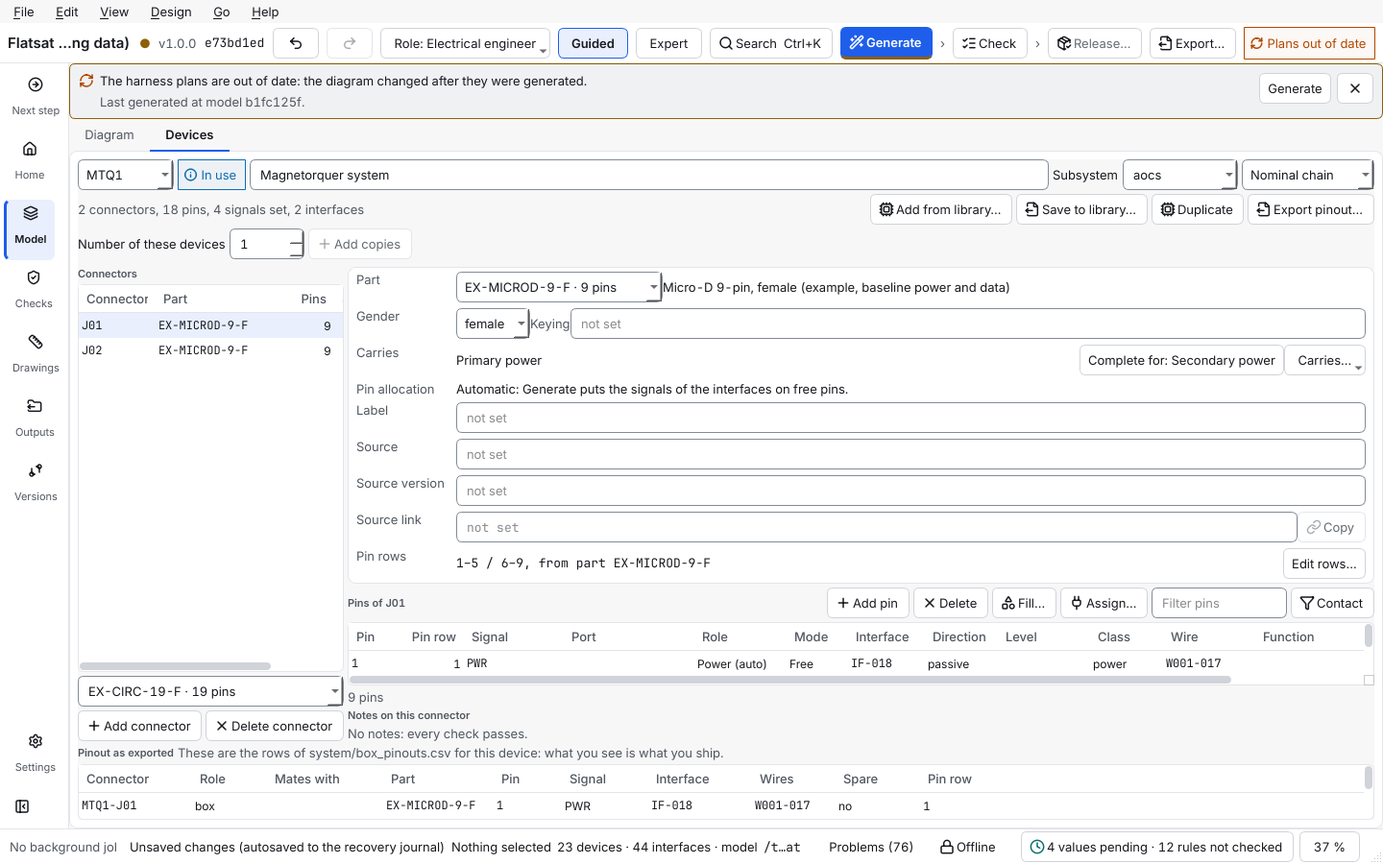
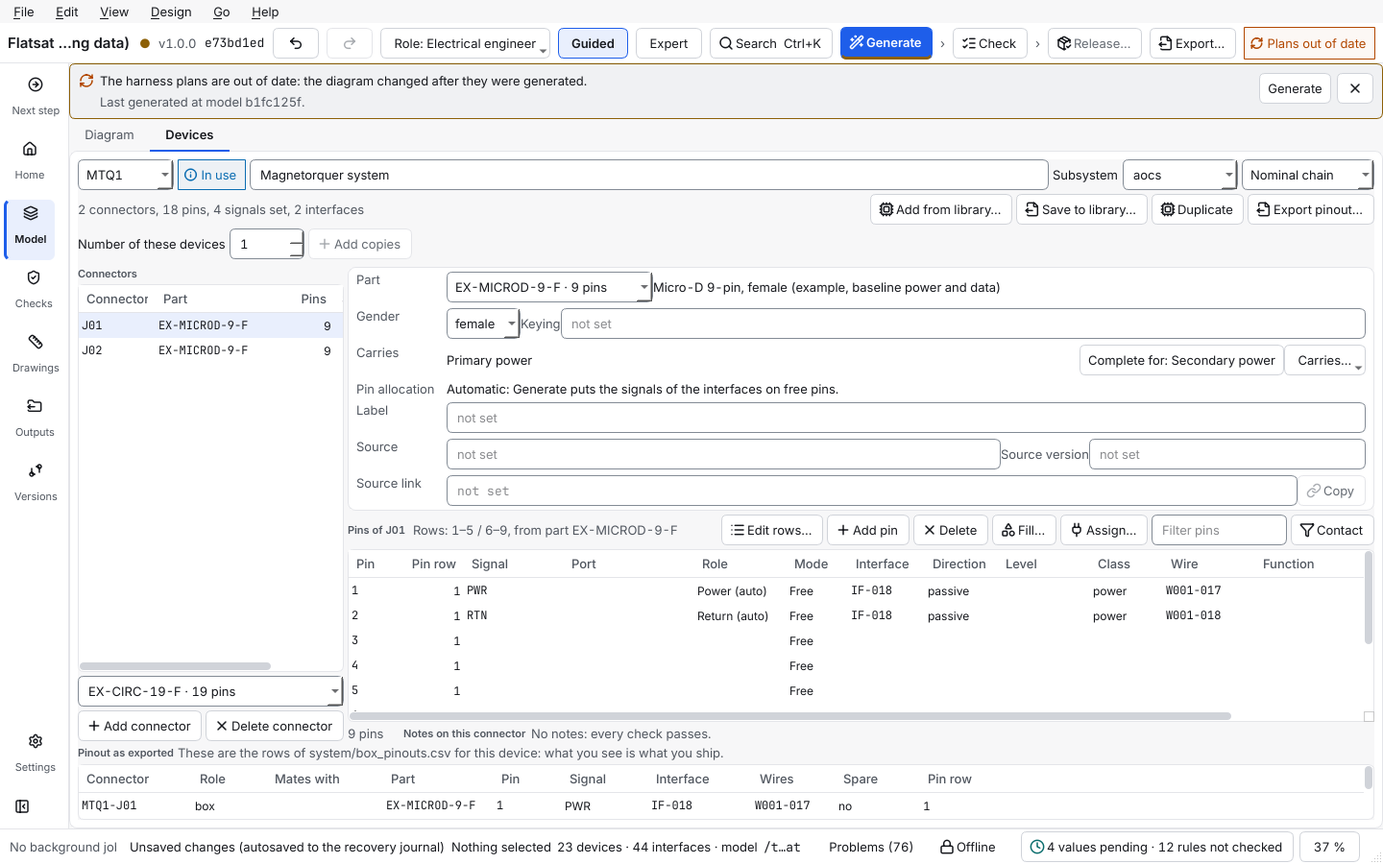
Devices tab: the pin rows on the line of the pin table, so that it keeps four rows (PR 5 of 4.0.0)
What: the follow-up on 79a5c8cd3. Picture 29 showed the pin table of the Devices tab one row
high at 1440 x 900: the card row Pin rows made the connector card taller.

- The card row Pin rows is gone. The line of the pin table reads "Pins of J01  Rows: 1–5 / 6–9,
  from part EX-MICROD-9-F" (or "Rows: none"), then Edit rows…, then Add pin. The rows' text is
  a gui/shell.ElidedLabel (cut when narrow, the whole text and the column's tip as tooltip;
  accessible name "Pin rows"); the caption is cut too, but only after the rows' text. When the
  pane has no room for every button with its text, Edit rows… shows its icon only
  (DevicesView._fit_pin_bar on a resize of the pane; tooltip and accessible name stay), so the
  tab's minimum width stays within a 1280 px window (test_ux_devices, 869 px).
- Moving the row alone gave the pin table two rows with the side panels open, so two lines
  more were taken out: the pin count and the notes' caption and count share one line under the
  table, and Source version sits beside Source on the card (as Keying beside Gender). The table
  now shows 5 rows in picture 29.
- tests/test_ui_row_layout.py: test_the_pin_table_keeps_four_rows_at_1440_by_900 (flatsat, a
  part with rows, the out-of-date banner, side panels open and closed; rows = the table's
  viewport height / the row height, as the layout tests read sizes). On 79a5c8cd3 it fails
  ("the pin table shows 0 rows (side panels open: True)"); with the row moved only, 2 rows;
[…]

diff --git a/HarnessDesignStudio/src/harness_design_studio/gui/devices_view.py b/HarnessDesignStudio/src/harness_design_studio/gui/devices_view.py
@@ -16,9 +16,9 @@ exported, and the notes the pin checks give. Plugged into the window as the sixt
   the interface type of the pin's signal and are empty, with the reason as tooltip, when nothing
   can be said: nothing is guessed. Port is the complete named port of a fixed pinout the pin is in
   and the interface on it (`devices.pin_ports`, D-237): worked out, never stored or exported.
-* The card's row *Pin rows* (format 4, D-251): the rows of the connector in the short text form and
-  where they come from (`row_layout_dialog.rows_words`), with *Edit rows…* (`rowsRequested`); the
-  pin table's column *Pin row* shows while the connector has a row layout.
+* The pin rows (format 4, D-251), on the line of the pin table: the rows of the connector in the
+  short text form and where they come from (`row_layout_dialog.rows_words`), with *Edit rows…*
+  (`rowsRequested`); the pin table's column *Pin row* shows while the connector has a row layout.
 * Notes under the pin table (`core.devices.pinout_problems`) and "Pinout as exported": exactly
   the rows of `system/box_pinouts.csv` for this unit.
 * Every number and sentence comes from headless code in `core.devices`, and every change goes
@@ -32,7 +32,16 @@ from functools import partial
 from pathlib import Path
 from typing import Any
 
-from PySide6.QtCore import QItemSelectionModel, QModelIndex, QSettings, Qt, QTimer, Signal
+from PySide6.QtCore import (
+    QEvent,
+    QItemSelectionModel,
+    QModelIndex,
+    QObject,
+    QSettings,
+    Qt,
+    QTimer,
+    Signal,
+)
 from PySide6.QtGui import QAction, QGuiApplication, QKeySequence, QShortcut
 from PySide6.QtWidgets import (
     QCheckBox,
@@ -44,6 +53,7 @@ from PySide6.QtWidgets import (
     QLineEdit,
     QMenu,
     QPushButton,
+    QSizePolicy,
     QSpinBox,
     QSplitter,
     QStackedWidget,
@@ -74,6 +84,7 @@ from harness_design_studio.gui.icons import icon_button, tooltip_text
 from harness_design_studio.gui.library_review import LibraryChip, LinkLookup
 from harness_design_studio.gui.lists_panel import table_columns
 from harness_design_studio.gui.row_layout_dialog import rows_words
+from harness_design_studio.gui.shell import ElidedLabel
 from harness_design_studio.gui.states import StateChip
 from harness_design_studio.gui.tables import Column, DictTableModel, Row, TableView, natural_key
 from harness_design_studio.gui.theme import ThemeManager, mark_mono
@@ -673,6 +684,7 @@ class DevicesView(QWidget):
         # where the pinout comes from (format 3, D-242, design of 3.0.0 section 4.1): the
         # document, its version and a web link to it, shown in the harness plan
         self.source_edits: dict[str, QLineEdit] = {}
+        source_box = QHBoxLayout()
         for k, (field, words, tip_text) in enumerate(
             (
                 ("source_doc", strings.DV_CARD_SOURCE, strings.DV_CARD_SOURCE_TIP),
@@ -688,8 +700,16 @@ class DevicesView(QWidget):
             edit.setPlaceholderText(strings.DV_CARD_NONE)
             edit.editingFinished.connect(partial(self._source_edited, field))
             self.source_edits[field] = edit
-            grid.addWidget(caption(words), k, 0, top)
-            if field == "source_link":
+            if field == "source_version":  # (on the line of Source, as Keying beside Gender:
+                source_box.addWidget(caption(words))  # the card stays short, 4.0.0)
+                source_box.addWidget(edit, 1)
+                continue
+            row = k if k == 5 else k - 1
+            grid.addWidget(caption(words), row, 0, top)
+            if field == "source_doc":
+                source_box.addWidget(edit, 2)
+                grid.addLayout(source_box, row, 1)
+            elif field == "source_link":
                 mark_mono(edit)
                 self.source_open = QPushButton()
                 self.source_open.setObjectName("devices-card-source-copy")
@@ -698,31 +718,32 @@ class DevicesView(QWidget):
                 link_box = QHBoxLayout()
                 link_box.addWidget(edit, 1)
                 link_box.addWidget(self.source_open)
-                grid.addLayout(link_box, k, 1)
-            else:
-                grid.addWidget(edit, k, 1)
-        # the pin rows of the connector and where they come from (format 4, design of 4.0.0
-        # section 9): own rows, the part's, or none; Edit rows… opens the dialog
-        self.rows_btn = QPushButton(strings.DV_ROWS_EDIT)
-        self.rows_btn.setObjectName("devices-card-rows-edit")
-        self.rows_btn.setAccessibleName(strings.DV_ROWS_EDIT)
-        self.rows_btn.setToolTip(strings.DV_ROWS_EDIT_TIP)
-        self.rows_btn.clicked.connect(self._edit_rows)
-        rows_box = QHBoxLayout()
-        rows_value = value("rows")
-        rows_value.setToolTip(strings.DV_CARD_ROWS_TIP)
-        mark_mono(rows_value)
-        rows_box.addWidget(rows_value, 1)
-        rows_box.addWidget(self.rows_btn)
-        grid.addWidget(caption(strings.DV_CARD_ROWS), 8, 0, top)
-        grid.addLayout(rows_box, 8, 1)
+                grid.addLayout(link_box, row, 1)
         grid.setColumnStretch(1, 1)
         rl.addWidget(self.card)
 
         bar = QHBoxLayout()
-        self.pins_caption = self._caption(strings.DV_PINS)
+        self.pins_caption = ElidedLabel(strings.DV_PINS)  # (cut, not wider, as the rows' text)
+        self.pins_caption.setProperty("heading", True)
+        self.pins_caption.setSizePolicy(QSizePolicy.Policy.Preferred, QSizePolicy.Policy.Preferred)
+        self.pins_caption.setMinimumWidth(1)  # (its whole text while there is room, cut after)
         bar.addWidget(self.pins_caption)
-        bar.addStretch(1)
+        # the pin rows of the connector and where they come from (format 4, design of 4.0.0
+        # section 9), on the line of the pin table so that the card does not grow: cut when the
+        # window is narrow (the whole text is the tooltip); Edit rows… opens the dialog
+        self.rows_text = ElidedLabel()
+        self.rows_text.setObjectName("devices-pin-rows")
+        self.rows_text.setAccessibleName(strings.DV_CARD_ROWS)
+        self.rows_text.setProperty("muted", True)
+        bar.addWidget(self.rows_text, 1)
+        self.rows_btn = QPushButton()
+        self.rows_btn.setObjectName("devices-pin-rows-edit")
+        icon_button(
+            self.rows_btn, "list", theme, strings.DV_ROWS_EDIT_TIP, text=strings.DV_ROWS_EDIT
+        )
+        self.rows_btn.clicked.connect(self._edit_rows)
+        bar.addWidget(self.rows_btn)
+        self.pin_bar = right  # (a narrow pane shows Edit rows… as its icon: `_fit_pin_bar`)
         self.pin_buttons: dict[str, QPushButton] = {}
         for key, icon_name, text, tip, shortcut, slot in (
             ("add", "plus", strings.DV_ADD_PIN, strings.DV_ADD_PIN_TIP, "Insert", self._insert_pin),
@@ -754,6 +775,11 @@ class DevicesView(QWidget):
         bar.addWidget(self.pin_filter)
         bar.addWidget(self.contact_btn)
         rl.addLayout(bar)
+        self._bar_layout = bar
+        # the least the button takes is its icon (the pane can be made that narrow: the text then
+        # goes, the tooltip and the accessible name stay)
+        self.rows_btn.setMinimumWidth(theme.px(36))
+        right.installEventFilter(self)
         self.pin_model = PinModel(PIN_COLUMNS, (), self.theme)
         self.pin_table = PinTable(
             self.pin_model, self.theme, name=strings.DV_PINS, settings=self.settings,
@@ -791,9 +817,17 @@ class DevicesView(QWidget):
         self.pin_count = QLabel()
         self.pin_count.setObjectName("devices-pin-count")
         self.pin_count.setProperty("muted", True)
-        rl.addWidget(self.pin_count)
-
-        rl.addWidget(self._caption(strings.DV_NOTES))
+        self.note_label = QLabel()
+        self.note_label.setObjectName("devices-note-label")
+        self.note_label.setProperty("muted", True)
+        # one line under the pin table: the count of the pins, the notes' caption and their count
+        # (4.0.0: two lines less, so that the pin table keeps its rows at 1440 x 900)
+        under = QHBoxLayout()
+        under.addWidget(self.pin_count)
+        under.addSpacing(theme.space(16))
+        under.addWidget(self._caption(strings.DV_NOTES))
+        under.addWidget(self.note_label, 1)
+        rl.addLayout(under)
         self.note_model = DictTableModel(NOTE_COLUMNS, (), self.theme)
         self.note_table = TableView(
             self.note_model, self.theme, name=strings.DV_NOTES, settings=self.settings,
@@ -804,10 +838,6 @@ class DevicesView(QWidget):
         self.note_table.setMaximumHeight(theme.px(96))
         self.note_table.activated.connect(self._note_activated)
         rl.addWidget(self.note_table)
-        self.note_label = QLabel()
-        self.note_label.setObjectName("devices-note-label")
-        self.note_label.setProperty("muted", True)
-        rl.addWidget(self.note_label)
         self.hsplit.addWidget(right)
 
         self.pin_filter.textChanged.connect(self.pin_table.proxy.set_text)
@@ -1257,6 +1287,7 @@ class DevicesView(QWidget):
             self.label_edit.setText("")
             self.pin_count.setText("")
             self.note_label.setText("")
+            self.rows_text.set_full_text("")
             self._show_pin_rows(None)
             return
         c = p.connectors[cid]
@@ -1283,7 +1314,8 @@ class DevicesView(QWidget):
         for edit in self.source_edits.values():
             edit.setEnabled(not ro)
         self.source_open.setEnabled(bool(c.source_link))
-        self.card_values["rows"].setText(rows_words(p, c))
+        words = strings.DV_ROWS_LINE.format(rows_words(p, c))
+        self.rows_text.set_full_text(words, f"{words}\n{strings.DV_CARD_ROWS_TIP}")
         self.rows_btn.setEnabled(not ro)
         self.rows_btn.setToolTip(strings.WHY_READ_ONLY if ro else strings.DV_ROWS_EDIT_TIP)
         face = layout_of(p, c)
@@ -1382,6 +1414,39 @@ class DevicesView(QWidget):
             if shown != total
             else strings.DV_PIN_COUNT_ALL.format(total)
         )
+
+    def eventFilter(self, obj: QObject, event: QEvent) -> bool:  # noqa: N802
+        if obj is self.pin_bar and event.type() == QEvent.Type.Resize:
+            self._fit_pin_bar()
+        return super().eventFilter(obj, event)
+
+    def _fit_pin_bar(self) -> None:
+        """*Edit rows…* with its text while the line of the pin table has room for every button
+        with its text, else as its icon (the text of the rows is cut first: `ElidedLabel`)."""
+        bar = self._bar_layout
+        need = 0
+        for k in range(bar.count()):
+            item = bar.itemAt(k)
+            w = item.widget() if item is not None else None
+            if w is None or w.isHidden():
+                continue
+            if w in (self.pins_caption, self.rows_text):
+                width = w.minimumSizeHint().width()
+            else:
+                width = self._rows_btn_full if w is self.rows_btn else w.sizeHint().width()
+            need += width + bar.spacing()
+        text = strings.DV_ROWS_EDIT if need <= self.pin_bar.width() else ""
+        if self.rows_btn.text() != text:
+            self.rows_btn.setText(text)
+            self.rows_btn.setProperty("iconOnly", not text)
+            self.rows_btn.style().unpolish(self.rows_btn)
+            self.rows_btn.style().polish(self.rows_btn)
+
+    @property
+    def _rows_btn_full(self) -> int:
+        """The width of *Edit rows…* with its text."""
+        fm = self.rows_btn.fontMetrics()
+        return self.rows_btn.iconSize().width() + fm.horizontalAdvance(strings.DV_ROWS_EDIT) + 32
 
     def _show_pin_rows(self, face: PinRows | None) -> None:
         """The Pin row column only while the connector shown has a row layout (section 9)."""

diff --git a/HarnessDesignStudio/tests/test_ui_row_layout.py b/HarnessDesignStudio/tests/test_ui_row_layout.py
@@ -86,16 +86,16 @@ def test_the_words_say_where_the_rows_come_from() -> None:
 # ---- the Devices tab: the row Pin rows and the pin table column -----------------------------------
 
 
-def test_the_devices_card_shows_the_pin_rows_and_their_source(qtbot, tmp_path) -> None:
+def test_the_pin_table_line_shows_the_pin_rows_and_their_source(qtbot, tmp_path) -> None:
     win = window_with(tmp_path)
     qtbot.addWidget(win)
     view = devices_at(win, "OBC-J02")
-    assert view.card_values["rows"].text() == "1 3 / 2, from part EX-MICROD-9-F"
-    assert view.rows_btn.isEnabled() and view.rows_btn.text() == strings.DV_ROWS_EDIT
+    assert view.rows_text.text() == strings.DV_ROWS_LINE.format("1 3 / 2, from part EX-MICROD-9-F")
+    assert view.rows_btn.isEnabled() and view.rows_btn.accessibleName() == strings.DV_ROWS_EDIT
     view = devices_at(win, OWN)
-    assert view.card_values["rows"].text() == "5 4 / 1, own rows"
+    assert view.rows_text.text() == strings.DV_ROWS_LINE.format("5 4 / 1, own rows")
     view = devices_at(win, "OBC-J01")
-    assert view.card_values["rows"].text() == strings.ROWS_NONE
+    assert view.rows_text.text() == strings.DV_ROWS_LINE.format(strings.ROWS_NONE)
     asked: list[str] = []
     view.rowsRequested.connect(asked.append)
     script = DialogScript(win, accept=False)
@@ -103,6 +103,29 @@ def test_the_devices_card_shows_the_pin_rows_and_their_source(qtbot, tmp_path) -
     assert asked == ["OBC-J01"]
     assert [d.windowTitle() for d in script.seen] == [strings.PR_TITLE_CONNECTOR.format("OBC-J01")]
     assert unnamed(view) == []
+    # the line of the pin table, before Add pin; the text is cut when the window is narrow and
+    # the whole of it is the tooltip, so the buttons keep their room
+    view = devices_at(win, "OBC-J02")
+    bar = [w.objectName() for w in (view.pins_caption, view.rows_text, view.rows_btn)]
+    assert bar == ["", "devices-pin-rows", "devices-pin-rows-edit"]
+    assert view.rows_btn.x() < view.pin_buttons["add"].x()
+    assert view.rows_text.x() < view.rows_btn.x()
+    full = view.rows_text.full_text()
+    assert full in view.rows_text.toolTip()
+    view.rows_text.resize(60, view.rows_text.height())
+    assert view.rows_text.shown_text() != full and "…" in view.rows_text.shown_text()
+    assert view.rows_text.accessibleName() == strings.DV_CARD_ROWS
+    # a pane too narrow for every button with its text shows Edit rows… as its icon; a wide one
+    # with its text
+    win.dock_left.hide()
+    win.dock_right.hide()
+    qtbot.waitUntil(lambda: view.rows_btn.text() == strings.DV_ROWS_EDIT, timeout=2000)
+    assert view.pins_caption.shown_text() == strings.DV_PIN_TABLE.format("J02")  # (whole)
+    win.dock_left.show()
+    win.dock_right.show()
+    win.resize(1100, 900)
+    qtbot.waitUntil(lambda: view.rows_btn.text() == "", timeout=2000)
+    assert view.rows_btn.accessibleName() == strings.DV_ROWS_EDIT
 
 
 def test_the_pin_table_has_the_pin_row_column_only_with_a_layout(qtbot, tmp_path) -> None:
@@ -123,6 +146,32 @@ def test_a_read_only_project_offers_no_edit_of_the_rows(qtbot, tmp_path) -> None
     assert not view.rows_btn.isEnabled()
     assert view.rows_btn.toolTip() == strings.WHY_READ_ONLY
     assert not win.pin_rows_flow("connector", "OBC-J02")
+
+
+def test_the_pin_table_keeps_four_rows_at_1440_by_900(qtbot, tmp_path) -> None:
+    """The size of docs/ux/qt/29-devices-pin-rows.png: the flatsat example, a part with rows, the
+    banner of plans out of date, the side panels open as they are by default and closed as in the
+    picture. The rows' line must not make the card taller: the pin table shows four rows or more."""
+    import shutil
+
+    from harness_design_studio.resources import examples_path
+
+    root = examples_path()
+    assert root is not None
+    shutil.copytree(root / "projects" / "flatsat", tmp_path / "flatsat")
+    win = make_window(tmp_path)
+    qtbot.addWidget(win)
+    assert win.open_project(tmp_path / "flatsat")
+    hold_drc(win)
+    assert win.ctl.set_row_layout(parse_text("1–5 / 6–9"), part="EX-MICROD-9-F")
+    view = devices_at(win, "MTQ1-J01")
+    for docks in (True, False):
+        win.dock_left.setVisible(docks)
+        win.dock_right.setVisible(docks)
+        qtbot.wait(300)  # (the banner and the layout settle)
+        table = view.pin_table
+        rows = table.viewport().height() // table.verticalHeader().defaultSectionSize()
+        assert rows >= 4, f"the pin table shows {rows} rows (side panels open: {docks})"
 
 
 # ---- the dialog ----------------------------------------------------------------------------------
@@ -227,7 +276,7 @@ def test_set_rows_is_one_undo_step_and_undo_brings_them_back(qtbot, tmp_path) ->
     assert win.ctl.project.connectors["OBC-J02"].row_layout == parse_text("2 3 1")
     assert steps(win) == n + 1
     view = devices_at(win, "OBC-J02")
-    assert view.card_values["rows"].text() == "2 3 1, own rows"
+    assert view.rows_text.text() == strings.DV_ROWS_LINE.format("2 3 1, own rows")
     assert pin_column(view) == (False, ["1", "1", "1"])  # (one row)
     win.ctl.undo()
     assert win.ctl.project.connectors["OBC-J02"].row_layout is None

diff --git a/HarnessDesignStudio/src/harness_design_studio/gui/strings.py b/HarnessDesignStudio/src/harness_design_studio/gui/strings.py
@@ -4211,6 +4211,7 @@ DV_CARD_ROWS_TIP = (
     "The rows of the connector's insert as they stand on its face, from the top, and where they "
     "come from: the connector's own rows or those of its part"
 )
+DV_ROWS_LINE = "Rows: {0}"
 DV_ROWS_EDIT = "Edit rows…"
 DV_ROWS_EDIT_TIP = "Enter or change the pin rows of this connector (one undo step)"
 DV_COL_PIN_ROW = "Pin row"

diff --git a/HarnessDesignStudio/CHANGELOG.md b/HarnessDesignStudio/CHANGELOG.md
@@ -9,7 +9,7 @@ Versions follow semantic versioning. Every project file records the tool version
 - **Format 4: the row layout of a connector** (decisions D-250 and D-251, pull request 1 of 4.0.0; `docs/ait/DESIGN_4.0_ROW_LAYOUT.md` sections 3 to 5). A connector part (`library/connector.json`) and a box connector (`physical/connectors/`) may hold `row_layout`: the rows of the insert from the top of the face, each the pin names in order along the row (a 21-pin Micro-D: `{"rows": [["1", …, "11"], ["12", …, "21"]]}`), and `rings: true` for the rings of a circular insert. Both are left out of the files while unset. A file that breaks a rule of a layout (an empty row, a pin twice, more than 64 rows or 1000 names, more names than the part has pins, a layout on a part that is not a connector, an own layout on a cable connector, a name that is not a pin of the connector) sets the part or the connector aside with the reason. Renaming or deleting a pin of a box connector keeps its own layout in step, in the same undo step; a part's pin count cannot go below the names of its layout. `core/row_layout.py` works out the layout of a connector (its own, else its part's, else the box connector it plugs into) and reads and writes the short text form `1–11 / 12–21`. Nothing reads a layout yet: no output, finding or screen changes. A device library file is written as version 3 and a subsystem file as version 2 only when a box connector or a part in it has a layout; the other files keep their version. See [the file format](docs/FILE_FORMAT.md#format-4-the-row-layout-of-a-connector-400).
 - **The row layout is checked, judged and edited in the core** (decision D-251, pull request 2 of 4.0.0; `docs/ait/DESIGN_4.0_ROW_LAYOUT.md` sections 4.3, 8 and 10; owner answer L1). `check` and `validate` report three new codes, none of them an error: `row_layout_pin_missing` (a warning: the rows of a part, or of the device connector a cable connector plugs into, name a pin the connector does not have), `row_layout_pins_outside` (a note: pins in no row, judged in the list of pins) and `row_layout_mate_differs` (a warning: two connectors that mate, or two parts linked by their mating part, hold other pins in a row; the order inside a row is not compared, since a mating face is seen mirrored); the two warnings are also findings of `model-inconsistent`. The rule **`power-return-adjacent` reads the face** of a connector with a row layout: two power or ground pins that are both in rows count the free contacts between them along the row (the shorter way round a ring), and two pins of rows next to each other are neighbours with no contact between when their places differ by one place or less, the rows taken as centred on each other (*J1: +28V (pin 1) and RTN (pin 12) are neighbours on the face of the connector (rows 1 and 2), with no unassigned contact between them*); a pair with a pin in no row is judged in the list of pins as before; pins of different rings are not judged and `unchecked-config` names them for each connector. The rule ID, its setting `generation.power_return_gap_pins` and the count of 39 rules stay; its help says that a neighbour in the next row counts too and that Generate does not read the rows. **A project without a row layout gives the same findings as before**: the DRC golden and the output-hash baseline are unchanged, and a test compares the rule with a word-for-word copy of the rule of 3.0.0 on generated projects. The plans `plan_set_row_layout`, `plan_clear_row_layout` and `plan_share_with_part` (`core/row_layout_edit.py`) are what the editor and `pin-rows` will call: one undo step each, journaled on save, refused with the reason when a layout breaks a rule of the files; a release does not lock the rows of a part or of a box connector. **For scripts:** `harness_design_studio.api` adds `row_layout_of`, `set_row_layout` and `clear_row_layout` and the result type `RowLayoutRecord`; `API_VERSION` stays 1. The assumptions A-RETURN-GAP and A-PIN-ORDER, the explanation of the rule (`explain`), `docs/RULES.md` and the pages of `docs/models/` say how neighbours are read. REQ-PIN-06.
 - **The row layout shows in the written outputs** (decision D-251, pull request 3 of 4.0.0; `docs/ait/DESIGN_4.0_ROW_LAYOUT.md` section 7). Where a connector has a row layout, `system/box_pinouts.csv` (and the Devices tab's pinout table) gets a last column *Pin row* with the row of each pin (empty for a pin in no row), and so does the pinout table of a harness with such a connector (`pinouts.csv` and its sheet of `<ID>.xlsx`; a cable connector has its part's rows, else those of the device connector it plugs into); the rows stay in pin order. `export-pinout` writes the column while a connector of the device has a layout (reading it back with `import-pinout` comes with pull request 4). In the harness plan the `CON_…` sheet of such a device connector has *Pin row* in column F, and a near block on it lists the pins row by row in the order of the layout, then the pins in no row, with *Pin row* in column A copying column F. `system/export.json` carries `row_layout` of the parts and device connectors that have one (its `format_version` stays 1). `verify --outputs` reads the rows again on its own and refuses a wrong row, a missing or extra column and a wrong order. A project without a layout writes the same bytes as before (the output-hash baseline and every golden set are unchanged); the new golden set is `tests/fixtures/outputs/row_layout*`.
-- **The row layout in the editor** (decision D-251, pull request 5 of 4.0.0; `docs/ait/DESIGN_4.0_ROW_LAYOUT.md` section 9). In the Devices tab the card of a device connector has a row **Pin rows**: the rows in the short text form and where they come from (*1–11 / 12–21, from part EX-MICROD-21-F*, *own rows*, or *none*), with **Edit rows…**; the pin table has a column **Pin row** while the connector has a row layout. The window **Pin rows of J1** takes one row per line (`1–11`, `12–21`), **Row lengths** with **Fill** (`11, 10`), the check box **Rings of a circular insert**, and says a mistake on a line under the fields while **Set rows** stays off (*the row layout names pin 22; J1 has no pin 22*, *pin 7 is in row 1 and in row 2*); **Use for every connector of this part** moves the rows to the part and clears the equal own rows of its other connectors, **Back to the part's rows** clears the connector's own rows, **Clear** empties the box (Set rows then removes the rows). The Inspector of a connector part shows its rows with **Edit rows…** (the same window, which names the connectors of the part that lack a pin of the rows); the Inspector of a cable connector shows the rows it takes and where from, read-only. The Problems list shows the three checks of the row layouts: the two warnings, and the note *pins in no row* as a row of severity Info; a click goes to the connector, and the row menu has **Edit the pin rows of …**. Every change is one undo step through the plans of the core, journaled on save. Pictures `docs/ux/qt/29-devices-pin-rows.png` and `30-pin-rows-dialog.png`.
+- **The row layout in the editor** (decision D-251, pull request 5 of 4.0.0; `docs/ait/DESIGN_4.0_ROW_LAYOUT.md` section 9). In the Devices tab the line of the pin table says *Pins of J1 Rows: …*: the rows in the short text form and where they come from (*1–11 / 12–21, from part EX-MICROD-21-F*, *own rows*, or *none*; cut when the window is narrow, the whole text as the tooltip), with **Edit rows…** before **Add pin**; the pin table has a column **Pin row** while the connector has a row layout. So that the pin table keeps at least four rows at 1440 x 900, the count of the pins and the notes share one line under the table, and *Source version* sits beside *Source* on the connector card. The window **Pin rows of J1** takes one row per line (`1–11`, `12–21`), **Row lengths** with **Fill** (`11, 10`), the check box **Rings of a circular insert**, and says a mistake on a line under the fields while **Set rows** stays off (*the row layout names pin 22; J1 has no pin 22*, *pin 7 is in row 1 and in row 2*); **Use for every connector of this part** moves the rows to the part and clears the equal own rows of its other connectors, **Back to the part's rows** clears the connector's own rows, **Clear** empties the box (Set rows then removes the rows). The Inspector of a connector part shows its rows with **Edit rows…** (the same window, which names the connectors of the part that lack a pin of the rows); the Inspector of a cable connector shows the rows it takes and where from, read-only. The Problems list shows the three checks of the row layouts: the two warnings, and the note *pins in no row* as a row of severity Info; a click goes to the connector, and the row menu has **Edit the pin rows of …**. Every change is one undo step through the plans of the core, journaled on save. Pictures `docs/ux/qt/29-devices-pin-rows.png` and `30-pin-rows-dialog.png`.
 
 ### Fixed
 

diff --git a/HarnessDesignStudio/docs/developer/agent/gui.md b/HarnessDesignStudio/docs/developer/agent/gui.md
@@ -13,7 +13,7 @@ Window (`gui/main_window.py`): the navigation rail (Next step, Home, Model, Chec
 - `harness_view.py`: the Harness tab (header with chips, pin and wire tables, zoomable drawing from `preview.py`'s `SheetView`, the right-hand tabs Why, Edit wire, Connectors and Accessories: `wire_editor.py` with `WireEditor`, `NewWireForm`, `LabelsForm`, planned by `core/wires.py`; `connector_editor.py`; `accessory_editor.py` with `AccessoryEditor`, planned by `core/build_data.py`; each editor is in a scroll area and the four tabs sit in the third column beside the pin and wire tables, so with the tree and the inspector open the *Edit wire* form, about 320 px wide, scrolls sideways in a tab of 230 to 275 px; see `docs/UX.md` section 15). `lists_panel.py`: the Lists tab (read-only tables from `core.outputs.tables`, CSV/XLSX export of the rows shown, and `outputs_files.py`, `OutputsFiles`: the exported files with state and SHA-256 worked out in a helper thread). `checks_panel.py`: the Checks tab (rules table from `ctl.drc_rule_results()`, summary strip, `PendingValuesLink`). `config_dialog.py`: the engineering values form behind **Supply value…** (`configcheck.plan_set_value`, one undo step). `releases_panel.py`: the Releases tab (timeline, differences, change-control buttons that only emit signals). `plan_table.py`: the table of a generate preview (built, not yet in `GeneratePreviewDialog`).
 - `export_dialog.py` (+ `export_docs.py`): the export window, harness x document tree; the check box *Include the open data (JSON and CSV of every result)* (`ExportDialog.open_data`; off by default, remembered as `export/open_data`; `OutputsWorker.open_data` makes `core.open_data.data_files` off the UI thread and the dialog writes them with `write_files` into `<outputs>/data/` after the outputs, outside the manifest; `verify.read_folder` skips `data/`) and the check box *Include the PDF drawings* (checked only when the folder's last export had them) decides whether the harness drawings are written, everything else always is (D-169). `import_wizard.py` (+ `import_kinds.py`): the four-page import wizard using the command line's planners. `new_project_dialog.py`: folder, name, example in one dialog. `lock_tree.py`: what a release locks or a new version unlocks, for the release and new-version dialogs. `notice.py`: inline messages in dialogs.
 - **The harness plan in the editor (3.0.0, D-242, pull request 7).** The Export window's check box *Include the harness plans (.ods), one per harness* (`ExportDialog.plans`, ticked when `harness_plan_exported(folder)`; `OutputsWorker.harness_plan`; an export without it into a folder with plans says `EXP_PLANS_REMOVED`, `ExportDialog.plans_removed`; `export_docs.PLAN_DOC`). `plan_pages.py`: `DocumentSection` and `HarnessPlanSection`, the Settings sections `document` and `harness_plan` (the window's `set_document_fields`, `set_document_contact`, `set_plan_settings`, `example_code_flow` with `ExampleCodeDialog`, `_show_plan_settings`, `document_flow`, `harness_plan_flow`), over `core/document.py` and `core/plan_config.py`; `EditRows` is a table model edited like a sheet that calls back. The Inspector's `PlanDocumentBox` (a harness) and `PartLinkBox` (a part, `build_data.plan_set_part_link`); the Devices tab's column `level`, the role `signal_ground` and `DevicesView.source_edits`; `LibraryWindow.part_table`. The links open through the hooks `opener` (the window's `open_url`). Tests: `tests/test_ui_harness_plan_editor.py`, `tests/test_plan_config.py`.
-- **The row layout of a connector in the editor (4.0.0, D-251, pull request 5).** `row_layout_dialog.py`: `PinRowsDialog` (*Pin rows of J1* or *of part …*: one row per line, *Row lengths* with *Fill*, *Rings*, the plan's sentence on the line under the fields; `action` is `set`, `share` or `back`) and `rows_words`; the window's `pin_rows_flow(kind, id)` runs it through `ctl.set_row_layout`, `clear_row_layout`, `share_rows_with_part` (one undo step each). The Devices tab's card row *Pin rows* (`devices-card-rows-edit`, `rowsRequested`) and the pin table column `pin_row` (hidden without a layout); the Inspector's `PartRowsBox` (a connector part) and the fact *Pin rows* of a cable connector; the Problems list's row-layout rows (`row_layout_code`, the notes of `ctl.layout_notes()`, `connectorRequested` to `MainWindow.show_connector`, `rowsRequested`). Tests: `tests/test_ui_row_layout.py`.
+- **The row layout of a connector in the editor (4.0.0, D-251, pull request 5).** `row_layout_dialog.py`: `PinRowsDialog` (*Pin rows of J1* or *of part …*: one row per line, *Row lengths* with *Fill*, *Rings*, the plan's sentence on the line under the fields; `action` is `set`, `share` or `back`) and `rows_words`; the window's `pin_rows_flow(kind, id)` runs it through `ctl.set_row_layout`, `clear_row_layout`, `share_rows_with_part` (one undo step each). The Devices tab's line of the pin table (`rows_text`, an `ElidedLabel`, and `devices-pin-rows-edit`, `rowsRequested`; `_fit_pin_bar` shows *Edit rows…* as its icon when the pane is too narrow for every button's text) and the pin table column `pin_row` (hidden without a layout); the pin count and the notes share one line, and *Source version* sits beside *Source*, so that the pin table keeps four rows at 1440 x 900 (`test_the_pin_table_keeps_four_rows_at_1440_by_900`); the Inspector's `PartRowsBox` (a connector part) and the fact *Pin rows* of a cable connector; the Problems list's row-layout rows (`row_layout_code`, the notes of `ctl.layout_notes()`, `connectorRequested` to `MainWindow.show_connector`, `rowsRequested`). Tests: `tests/test_ui_row_layout.py`.
 - **Nothing goes to the system's opener but a folder (3.0.1, D-250).** The links of parts and sources are copied (`weblinks.py`, `copier` hooks on the inspector's link box, the Devices tab and the library window, set to `MainWindow._copy_link`). Help > User guide (F1, `MainWindow.guide_flow`) shows `resources/guide/index.html` in `guide_window.py` (`GuideWindow`, a `Dialog` with `blocks = False`, one instance in `MainWindow.guide_window`; `follow(url)` keeps a page of the guide's folder in the window and copies a web link through `copier` or refuses any other link; `guide_css` gives the page the theme's colours, since `QTextBrowser` reads no CSS custom properties). The Export window's result panel (`ExportResultPanel`) and the Outputs list (`OutputsFiles`) have *Copy path* (`copy_path`, Enter, a double-click; a `copier` hook, the message `PATH_COPIED`) in place of Open. `folders.py` is the only module that names `QDesktopServices` (`tests/test_security.py`): `folders.reveal_folder(target, opener)` hands an existing local directory to `opener` (default `folders.system_open`) and returns the URL, or None for anything else; `folder_of` gives a file's folder. Every Reveal, *Open the folder after the export* and `MainWindow._show_folder` go through it; the `opener=` hooks (`ExportDialog`, `ExportResultPanel`, `OutputsFiles`, `MainWindow.open_url`) stay for the tests and only ever get a folder's URL.
 - `tables.py` (`TableView`, `DictTableModel`, `Column`, `TableProxy`, TSV copy, saved widths), `states.py` (`StateChip`, `StateDelegate`, the twelve states), `icons.py` (Lucide paths drawn with QPainter; `icon`, `icon_button`), `background.py` (`JobRunner`: one cached job per key off the UI thread).
 - Rules: tables are `tables.TableView` (never `QTableWidget`), states are `states.StateChip` or `StateDelegate` (never colour alone; pending and not checked have a pattern), icons come from `icons.py` (the package has no QtSvg), no `setStyleSheet` outside `theme/`, no `#RRGGBB` literal, font family or font size outside `theme/` (use `theme.color()`, `theme.font()`, `theme.type()` and `theme.space()`; `tests/test_theme_scan.py` fails otherwise), every string in `strings.py`, every control an accessible name and a tooltip with its shortcut, validation inline (never a message box). A new view gets its data from the controller and from headless code in `core`, never by reading files itself. A layout value of the window (panels, minimap, legend, the open area) is stored under `self._wkey(key)` (`role_key` of `gui/roles.py`), so one role's layout never overwrites the other's (`tests/test_ui_role_layout.py`); what a new control does for the Systems engineer role is decided in `_apply_role`.

diff --git a/HarnessDesignStudio/docs/ait/DESIGN_4.0_ROW_LAYOUT.md b/HarnessDesignStudio/docs/ait/DESIGN_4.0_ROW_LAYOUT.md
@@ -343,6 +343,7 @@ Pull request 5 is built as row 5 says, with these differences, each for the reas
 - **Clear empties the box**; **Set rows** with an empty box then removes the rows (of a part, or the own rows of a connector, as *Back to the part's rows*). A connector cannot have no rows while its part has some (section 3), so a third action that removes rows would do what *Back* does.
 - **Set rows with the rows of the part** on a connector without rows of its own stores nothing: the dialog opens with the rows the connector takes, and OK as it opened is no change. **Use for every connector of this part** takes the rows in the box, also when they were changed in the dialog: the plan `plan_share_with_part` is asked about the project as it would be with those rows on the connector, so the change stays one undo step.
 - **The note `row_layout_pins_outside`** is not a finding (pull request 2), so the Problems list adds it from `EditorController.layout_notes()` as a row of severity Info, and the window's Problems button counts it, so the two numbers agree. A click on any of the three checks goes to the connector (`MainWindow.show_connector`: the Devices tab for a device connector, the Inspector for a cable connector or a part); section 9 names no fix, so the row menu offers *Edit the pin rows of …* where the rows come from (`problems_panel.rows_target`: a device connector itself, a cable connector's part or mated device connector, a part). The findings of the face rule (section 8) are findings of `power-return-adjacent` and go where they went.
+- **The rows are on the line of the pin table, not a row of the connector card** (section 9 says *a row Pin rows* of the details): *Pins of J1  Rows: 1–11 / 12–21, from part …* then **Edit rows…** before **Add pin**, the text cut when the pane is narrow (the whole of it is the tooltip) and the button shown as its icon when the pane has no room for every button's text. A card row made the card taller and left the pin table one row high at 1440 x 900; for the same reason the count of the pins and the notes share one line under the table and *Source version* sits beside *Source*, and a test holds four rows of the pin table at that size, with the side panels open and closed.
 - **The column *Pin row* of the pin table** is next to *Pin*, not last as in `box_pinouts.csv`: the table scrolls sideways at 1440 x 900, and a last column would be out of view. The saved widths of the table start again (`devices-pins-4`).
 - **The connector editor of a harness** is not changed: row 5 names the Inspector of a cable connector, which shows the rows it takes (kind `cable_end`, any cable connector).
 - **The screenshots** had no picture of the Devices tab; two are added (`docs/ux/qt/29-devices-pin-rows.png`, `30-pin-rows-dialog.png`), on the flatsat example with rows `1–5 / 6–9` that are an example of the form. The in-app guide and the user manual page are pull request 6.
